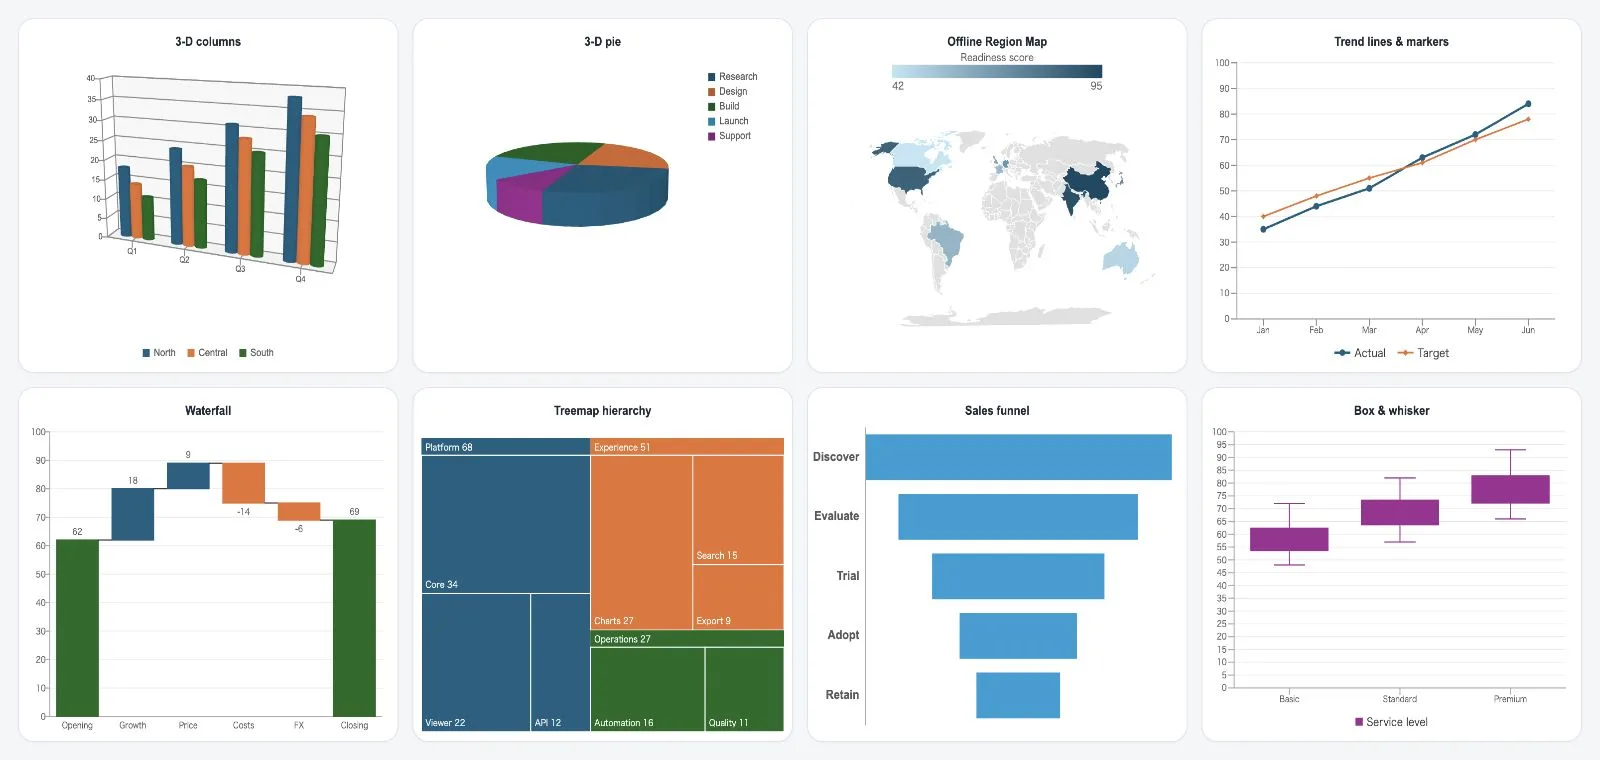
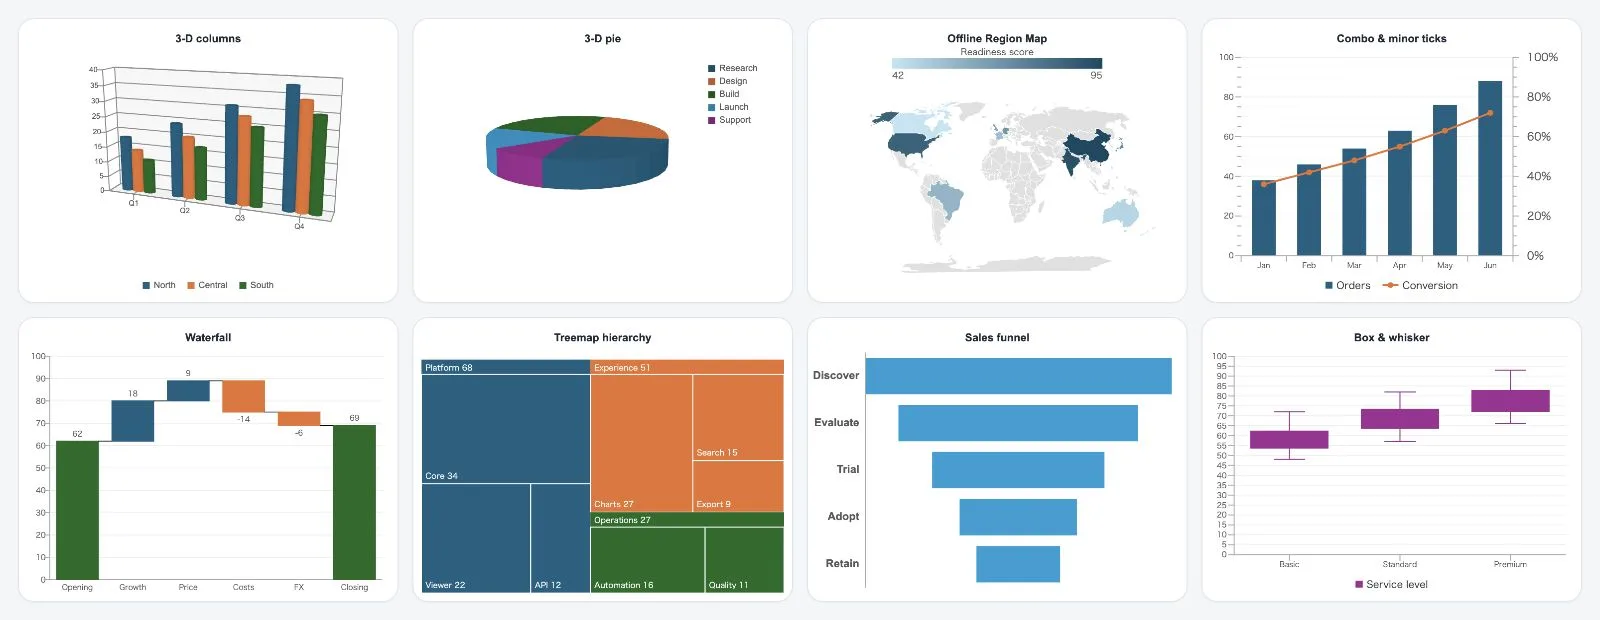
docs(site): refine chart preview aspect ratio
Render each synthetic chart card at a 4:3 aspect ratio and shorten the release artwork to a 1600x620 grid. Replace the line-only panel with a dual-axis combo chart that demonstrates authored major and minor tick behavior.\n\nVerified with site content tests, Astro production build, workspace typecheck, browser visual review and git diff checks.\n\nCo-Authored-By: Codex GPT-5 <noreply@openai.com>

diff --git a/site/src/lib/announcements.ts b/site/src/lib/announcements.ts
@@ -45,7 +45,7 @@ export const announcements: readonly Announcement[] = [
     audience: 'Applications that display Office charts. Existing applications keep the 2-D fallback without source changes; import the optional add-ons only when authored 3-D charts or country-level Region Maps are required.',
     image: {
       src: '/announcements/chart-rendering-v079.webp',
-      alt: 'A grid of eight synthetic chart renderings: 3-D columns, 3-D pie, an offline country Region Map, line, waterfall, treemap, funnel and box-and-whisker charts.',
+      alt: 'A grid of eight synthetic chart renderings: 3-D columns, 3-D pie, an offline country Region Map, a combo chart with minor ticks, waterfall, treemap, funnel and box-and-whisker charts.',
       caption: 'Rendered by @silurus/ooxml from synthetic data. The map uses public-domain Natural Earth geometry; no Office, Bing or private-document artwork is reproduced.',
     },
     sections: [
